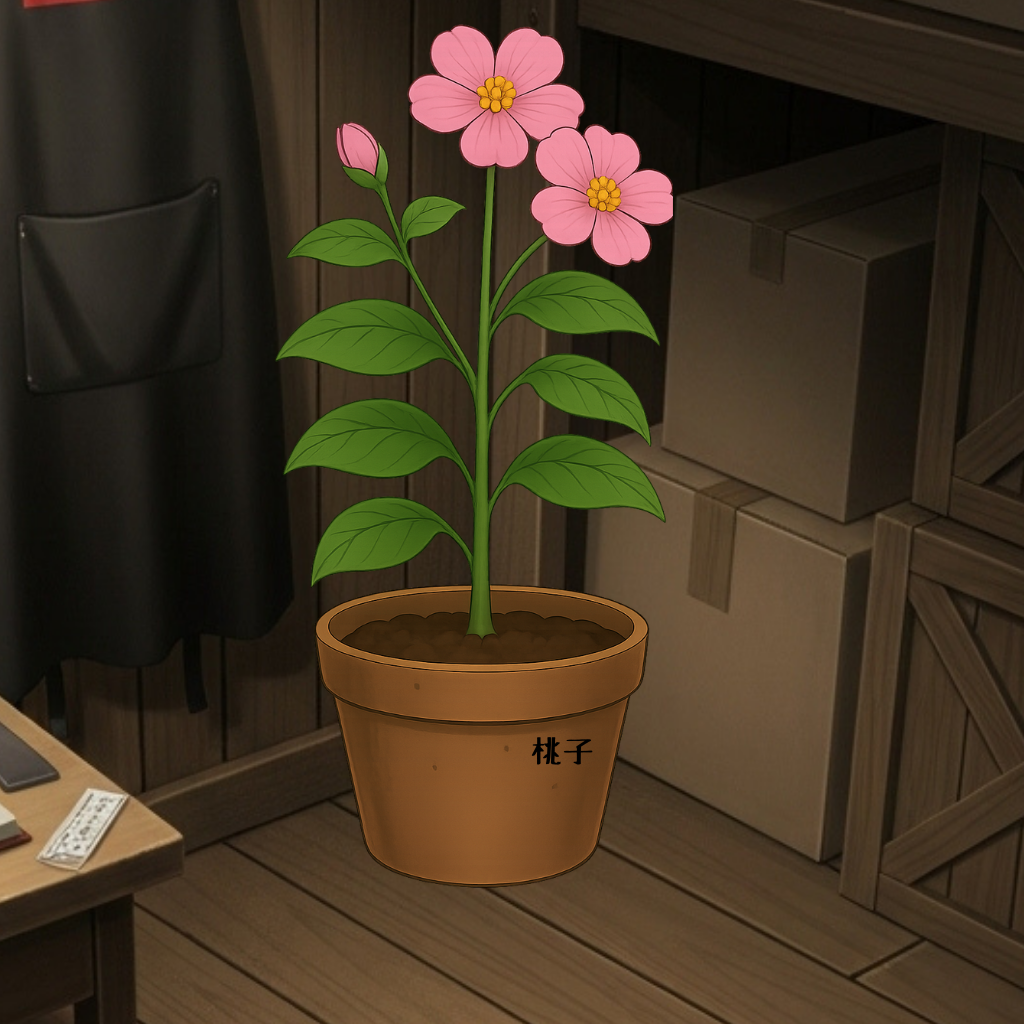
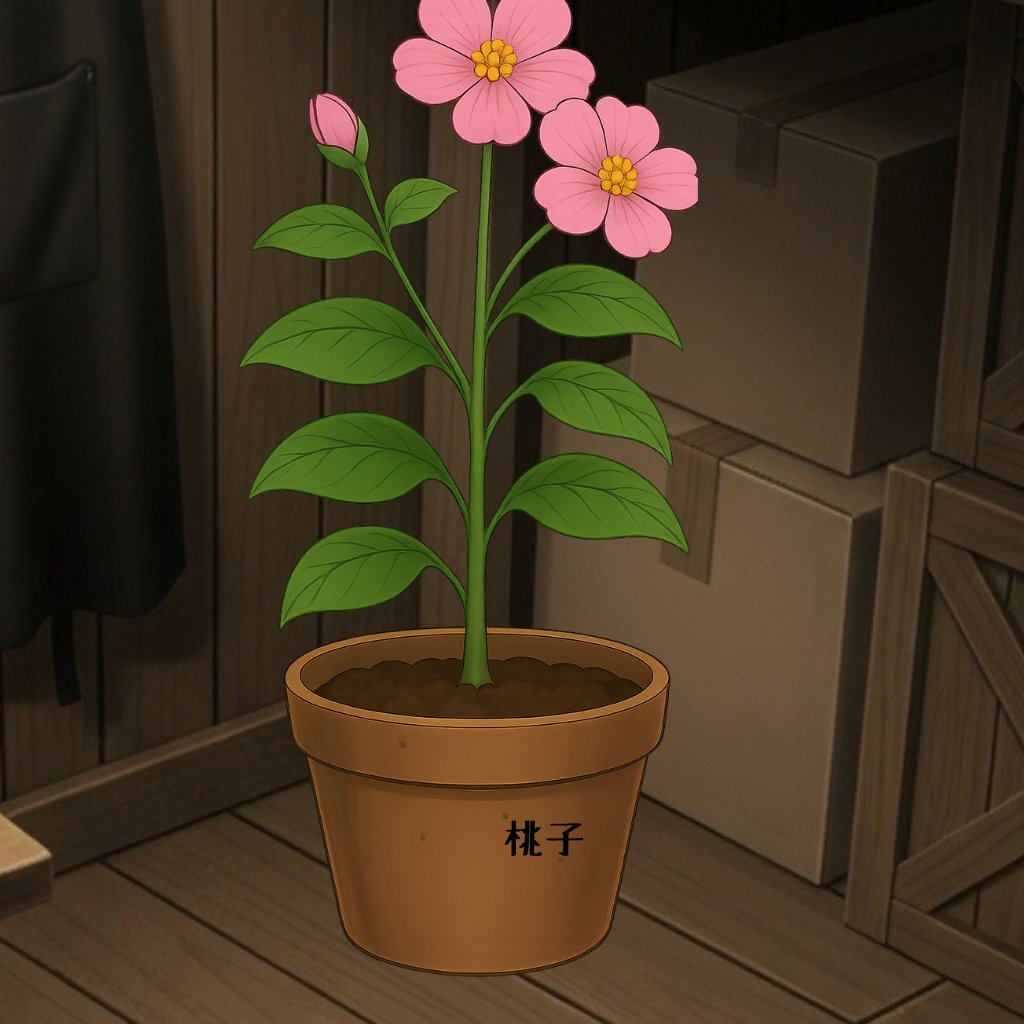
10 upd

diff --git a/escape10.html b/escape10.html
@@ -1470,7 +1470,7 @@
                         
                     },
                     {
-                        x: 46.9, y: 35.9, width: 20.6, height: 41.5,
+                        x: 46.9, y: 37.9, width: 20.6, height: 41.5,
                         action: 'examine_master_room_green',
                         description: '植物',
                         zIndex:1,
